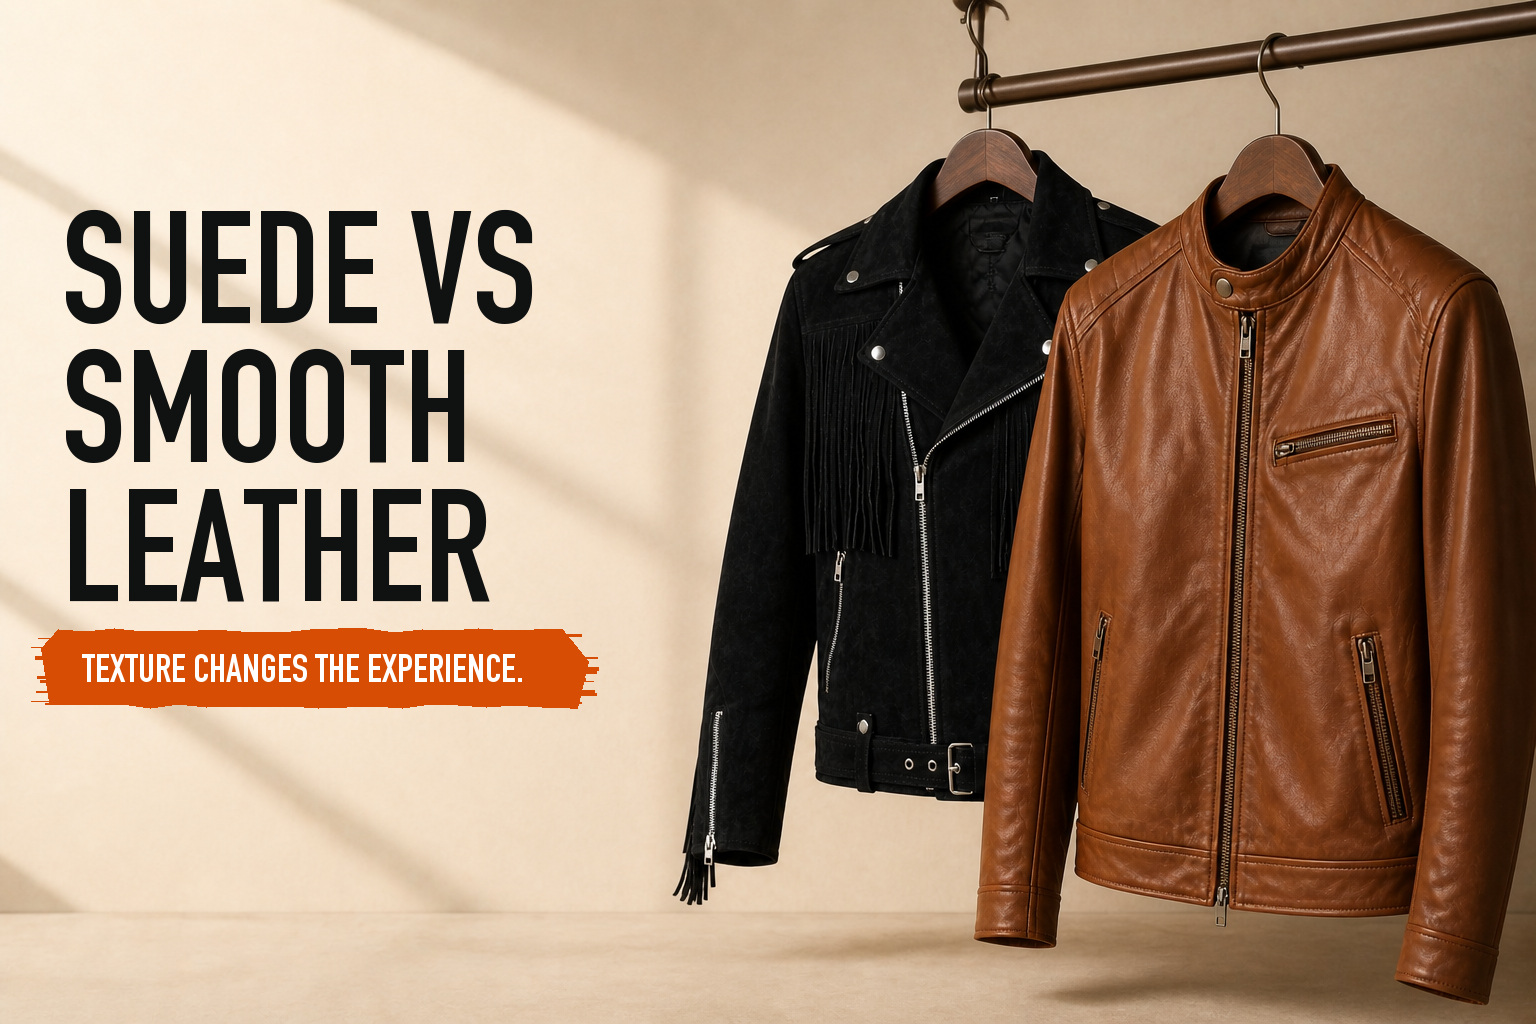
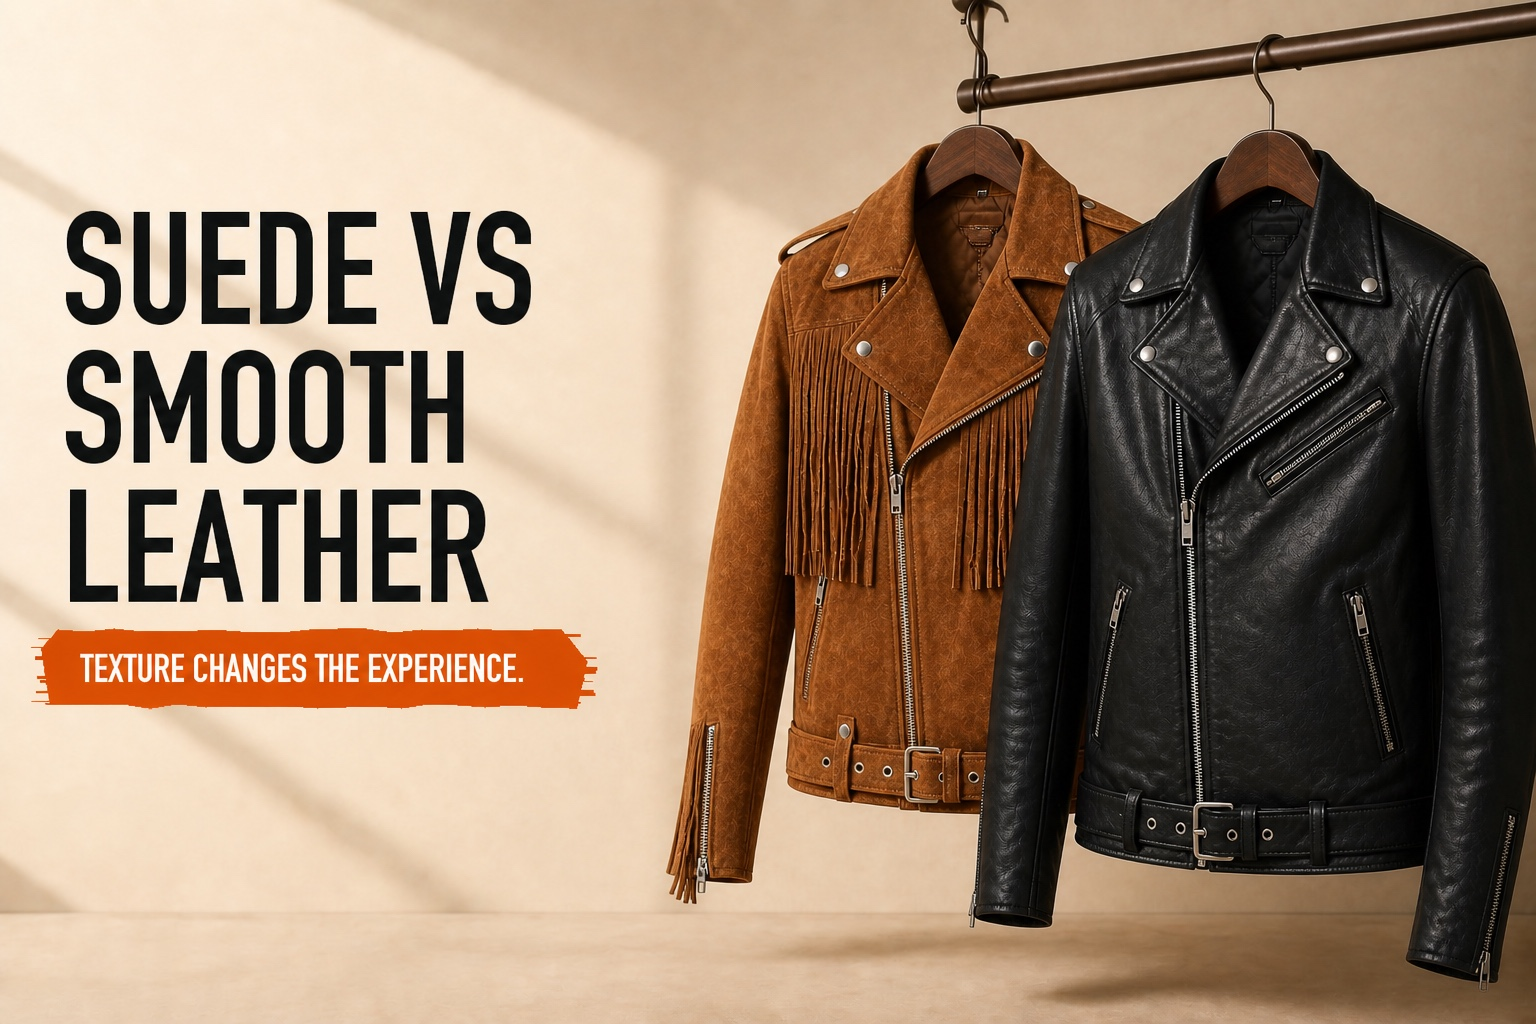
Upgrade suede leather blog visuals

diff --git a/index.html b/index.html
@@ -3995,9 +3995,9 @@ const SSM_JOURNAL = [
     "isoDate": "2026-08-14",
     "byline": "MOTOGRIP GEAR Editorial",
     "hero": "/assets/generated/blog/suede-vs-smooth-leather-jackets-hero.jpg",
-    "heroAlt": "MOTOGRIP suede versus smooth leather guide with two verified jackets hanging in a warm studio",
+    "heroAlt": "Tan-brown suede and black smooth leather MOTOGRIP jackets hanging side by side in a warm studio",
     "cardImage": "/assets/generated/blog/suede-vs-smooth-leather-jackets-card.jpg",
-    "cardImageAlt": "Black MOTOGRIP suede fringe jacket beside a brown smooth leather cafe-racer for a texture comparison",
+    "cardImageAlt": "Tan-brown MOTOGRIP suede fringe biker jacket beside a black smooth cowhide biker jacket for a texture comparison",
     "quickAnswer": "Suede offers a soft, matte nap and expressive texture but needs careful brushing, stain caution and limited wet-weather exposure. Smooth leather has a cleaner, more reflective surface and is generally easier to maintain. The better choice depends on climate, style, care habits and the complete jacket construction.",
     "body": [
       "Suede and smooth leather can begin with the same broad raw material yet create completely different jackets. Suede has a soft nap that absorbs light and gives a relaxed, tactile appearance. Smooth leather presents the grain or a finished surface with clearer reflection and typically easier day-to-day wiping. The right choice depends on weather exposure, care habits, silhouette and the texture you want to live with."
@@ -4015,17 +4015,25 @@ const SSM_JOURNAL = [
         "title": "Suede: expressive texture with a specialist-care profile",
         "paragraphs": [
           "Suede works especially well when texture is central to the design. Western fringe, asymmetric biker details and tonal black hardware can become richer because the matte nap absorbs light rather than reflecting it.",
-          "The MOTOGRIP black suede fringe biker jacket shows this relationship clearly. The suede surface, long fringe, asymmetric zip and belt work as one design system. Converting the same silhouette to a glossy smooth finish would change its character significantly.",
+          "The MOTOGRIP tan-brown suede fringe biker jacket shows this relationship clearly. The suede surface, long fringe, asymmetric zip and belt work as one design system. Converting the same silhouette to a glossy smooth finish would change its character significantly.",
           "Suede also records contact quickly. Water, oil, pressure and dust can flatten or darken the nap. That does not make suede impractical, but it does mean the owner should use a suede brush, follow product-specific care instructions and seek professional help for large oil stains or widespread discoloration."
-        ]
+        ],
+        "image": "/assets/generated/blog/suede-vs-smooth-leather-suede-swatch.jpg",
+        "imageAlt": "Close view of the matte tan-brown suede nap, fringe and silver zipper on a MOTOGRIP biker jacket",
+        "imageCaption": "Verified MOTOGRIP tan-brown suede fringe biker jacket close-up. The raised matte nap scatters light and softens the color.",
+        "imageRatio": "3 / 2"
       },
       {
         "title": "Smooth leather: defined lines and a more direct care routine",
         "paragraphs": [
-          "Smooth leather emphasizes panel lines, collars, zips and pockets. A brown cafe-racer, for example, gains much of its character from the way light moves across the surface and highlights natural creasing.",
+          "Smooth leather emphasizes panel lines, collars, zips and pockets. The MOTOGRIP Aegis black cowhide biker jacket gains much of its character from the way light moves across the surface and highlights its grain and structured details.",
           "Smooth leather is generally easier to dust or wipe carefully than suede, but the exact finish still matters. Aniline smooth leather can be highly absorbent and mark-sensitive, while a pigmented surface may be more protected. “Smooth” describes texture, not a universal care method.",
           "The first step is always to identify the finish and read the care label. Avoid household detergent, alcohol, baby wipes, direct heat and heavy oiling. Use minimal moisture and test approved products on a hidden area."
-        ]
+        ],
+        "image": "/assets/generated/blog/suede-vs-smooth-leather-smooth-swatch.jpg",
+        "imageAlt": "Close view of the black smooth cowhide grain, lapel and silver zippers on a MOTOGRIP biker jacket",
+        "imageCaption": "Verified MOTOGRIP Aegis black cowhide biker jacket close-up. The smooth surface reflects light and makes the grain and hardware more defined.",
+        "imageRatio": "3 / 2"
       },
       {
         "title": "Weather and moisture",
@@ -4136,7 +4144,7 @@ const SSM_JOURNAL = [
     "relatedLinks": [
       {
         "url": "https://www.motogripgear.com/products/mens-black-suede-fringe-biker-jacket",
-        "anchor": "MOTOGRIP black suede fringe biker jacket"
+        "anchor": "MOTOGRIP suede fringe biker jacket"
       },
       {
         "url": "https://www.motogripgear.com/blog/how-to-clean-suede-leather-jacket",

diff --git a/ssm-data.jsx b/ssm-data.jsx
@@ -918,9 +918,9 @@ const SSM_JOURNAL = [
     "isoDate": "2026-08-14",
     "byline": "MOTOGRIP GEAR Editorial",
     "hero": "/assets/generated/blog/suede-vs-smooth-leather-jackets-hero.jpg",
-    "heroAlt": "MOTOGRIP suede versus smooth leather guide with two verified jackets hanging in a warm studio",
+    "heroAlt": "Tan-brown suede and black smooth leather MOTOGRIP jackets hanging side by side in a warm studio",
     "cardImage": "/assets/generated/blog/suede-vs-smooth-leather-jackets-card.jpg",
-    "cardImageAlt": "Black MOTOGRIP suede fringe jacket beside a brown smooth leather cafe-racer for a texture comparison",
+    "cardImageAlt": "Tan-brown MOTOGRIP suede fringe biker jacket beside a black smooth cowhide biker jacket for a texture comparison",
     "quickAnswer": "Suede offers a soft, matte nap and expressive texture but needs careful brushing, stain caution and limited wet-weather exposure. Smooth leather has a cleaner, more reflective surface and is generally easier to maintain. The better choice depends on climate, style, care habits and the complete jacket construction.",
     "body": [
       "Suede and smooth leather can begin with the same broad raw material yet create completely different jackets. Suede has a soft nap that absorbs light and gives a relaxed, tactile appearance. Smooth leather presents the grain or a finished surface with clearer reflection and typically easier day-to-day wiping. The right choice depends on weather exposure, care habits, silhouette and the texture you want to live with."
@@ -938,17 +938,25 @@ const SSM_JOURNAL = [
         "title": "Suede: expressive texture with a specialist-care profile",
         "paragraphs": [
           "Suede works especially well when texture is central to the design. Western fringe, asymmetric biker details and tonal black hardware can become richer because the matte nap absorbs light rather than reflecting it.",
-          "The MOTOGRIP black suede fringe biker jacket shows this relationship clearly. The suede surface, long fringe, asymmetric zip and belt work as one design system. Converting the same silhouette to a glossy smooth finish would change its character significantly.",
+          "The MOTOGRIP tan-brown suede fringe biker jacket shows this relationship clearly. The suede surface, long fringe, asymmetric zip and belt work as one design system. Converting the same silhouette to a glossy smooth finish would change its character significantly.",
           "Suede also records contact quickly. Water, oil, pressure and dust can flatten or darken the nap. That does not make suede impractical, but it does mean the owner should use a suede brush, follow product-specific care instructions and seek professional help for large oil stains or widespread discoloration."
-        ]
+        ],
+        "image": "/assets/generated/blog/suede-vs-smooth-leather-suede-swatch.jpg",
+        "imageAlt": "Close view of the matte tan-brown suede nap, fringe and silver zipper on a MOTOGRIP biker jacket",
+        "imageCaption": "Verified MOTOGRIP tan-brown suede fringe biker jacket close-up. The raised matte nap scatters light and softens the color.",
+        "imageRatio": "3 / 2"
       },
       {
         "title": "Smooth leather: defined lines and a more direct care routine",
         "paragraphs": [
-          "Smooth leather emphasizes panel lines, collars, zips and pockets. A brown cafe-racer, for example, gains much of its character from the way light moves across the surface and highlights natural creasing.",
+          "Smooth leather emphasizes panel lines, collars, zips and pockets. The MOTOGRIP Aegis black cowhide biker jacket gains much of its character from the way light moves across the surface and highlights its grain and structured details.",
           "Smooth leather is generally easier to dust or wipe carefully than suede, but the exact finish still matters. Aniline smooth leather can be highly absorbent and mark-sensitive, while a pigmented surface may be more protected. “Smooth” describes texture, not a universal care method.",
           "The first step is always to identify the finish and read the care label. Avoid household detergent, alcohol, baby wipes, direct heat and heavy oiling. Use minimal moisture and test approved products on a hidden area."
-        ]
+        ],
+        "image": "/assets/generated/blog/suede-vs-smooth-leather-smooth-swatch.jpg",
+        "imageAlt": "Close view of the black smooth cowhide grain, lapel and silver zippers on a MOTOGRIP biker jacket",
+        "imageCaption": "Verified MOTOGRIP Aegis black cowhide biker jacket close-up. The smooth surface reflects light and makes the grain and hardware more defined.",
+        "imageRatio": "3 / 2"
       },
       {
         "title": "Weather and moisture",
@@ -1059,7 +1067,7 @@ const SSM_JOURNAL = [
     "relatedLinks": [
       {
         "url": "https://www.motogripgear.com/products/mens-black-suede-fringe-biker-jacket",
-        "anchor": "MOTOGRIP black suede fringe biker jacket"
+        "anchor": "MOTOGRIP suede fringe biker jacket"
       },
       {
         "url": "https://www.motogripgear.com/blog/how-to-clean-suede-leather-jacket",

diff --git a/test/suede-vs-smooth-visuals.test.js b/test/suede-vs-smooth-visuals.test.js
@@ -1,0 +1,63 @@
+const assert = require('node:assert/strict');
+const fs = require('node:fs');
+const path = require('node:path');
+const test = require('node:test');
+
+const root = path.resolve(__dirname, '..');
+const indexHtml = fs.readFileSync(path.join(root, 'index.html'), 'utf8');
+const dataSource = fs.readFileSync(path.join(root, 'ssm-data.jsx'), 'utf8');
+
+const assets = [
+  'suede-vs-smooth-leather-jackets-card.jpg',
+  'suede-vs-smooth-leather-jackets-hero.jpg',
+  'suede-vs-smooth-leather-suede-swatch.jpg',
+  'suede-vs-smooth-leather-smooth-swatch.jpg',
+];
+
+function jpegDimensions(filePath) {
+  const data = fs.readFileSync(filePath);
+  assert.equal(data[0], 0xff, `${filePath} is not a JPEG`);
+  assert.equal(data[1], 0xd8, `${filePath} is not a JPEG`);
+  let offset = 2;
+  while (offset < data.length) {
+    if (data[offset] !== 0xff) {
+      offset += 1;
+      continue;
+    }
+    const marker = data[offset + 1];
+    offset += 2;
+    if (marker === 0xd8 || marker === 0xd9) continue;
+    const length = data.readUInt16BE(offset);
+    if ([0xc0, 0xc1, 0xc2, 0xc3, 0xc5, 0xc6, 0xc7, 0xc9, 0xca, 0xcb, 0xcd, 0xce, 0xcf].includes(marker)) {
+      return { height: data.readUInt16BE(offset + 3), width: data.readUInt16BE(offset + 5) };
+    }
+    offset += length;
+  }
+  throw new Error(`No JPEG size marker found in ${filePath}`);
+}
+
+test('pilot blog mirrors approved banner and swatch visuals in both data sources', () => {
+  for (const source of [indexHtml, dataSource]) {
+    assert.match(source, /suede-vs-smooth-leather-suede-swatch\.jpg/);
+    assert.match(source, /suede-vs-smooth-leather-smooth-swatch\.jpg/);
+    assert.match(source, /Verified MOTOGRIP tan-brown suede fringe biker jacket close-up/);
+    assert.match(source, /Verified MOTOGRIP Aegis black cowhide biker jacket close-up/);
+    assert.match(source, /Tan-brown suede and black smooth leather MOTOGRIP jackets/);
+    assert.doesNotMatch(source, /Black MOTOGRIP suede fringe jacket beside a brown smooth leather cafe-racer/);
+  }
+});
+
+test('pilot blog images are native 1536 by 1024 JPEGs', () => {
+  for (const asset of assets) {
+    const filePath = path.join(root, 'assets/generated/blog', asset);
+    assert.ok(fs.existsSync(filePath), `Missing ${asset}`);
+    assert.deepEqual(jpegDimensions(filePath), { width: 1536, height: 1024 });
+  }
+});
+
+test('pilot blog release contains no competitor names or image URLs', () => {
+  const start = indexHtml.indexOf('"id": "suede-vs-smooth-leather-jackets"');
+  const end = indexHtml.indexOf("id: 'how-to-buy-your-first-leather-jacket'", start);
+  const article = indexHtml.slice(start, end);
+  assert.doesNotMatch(article, /the\s*jacket\s*maker|thejacketmaker|first\s*mfg|firstmfg/i);
+});
